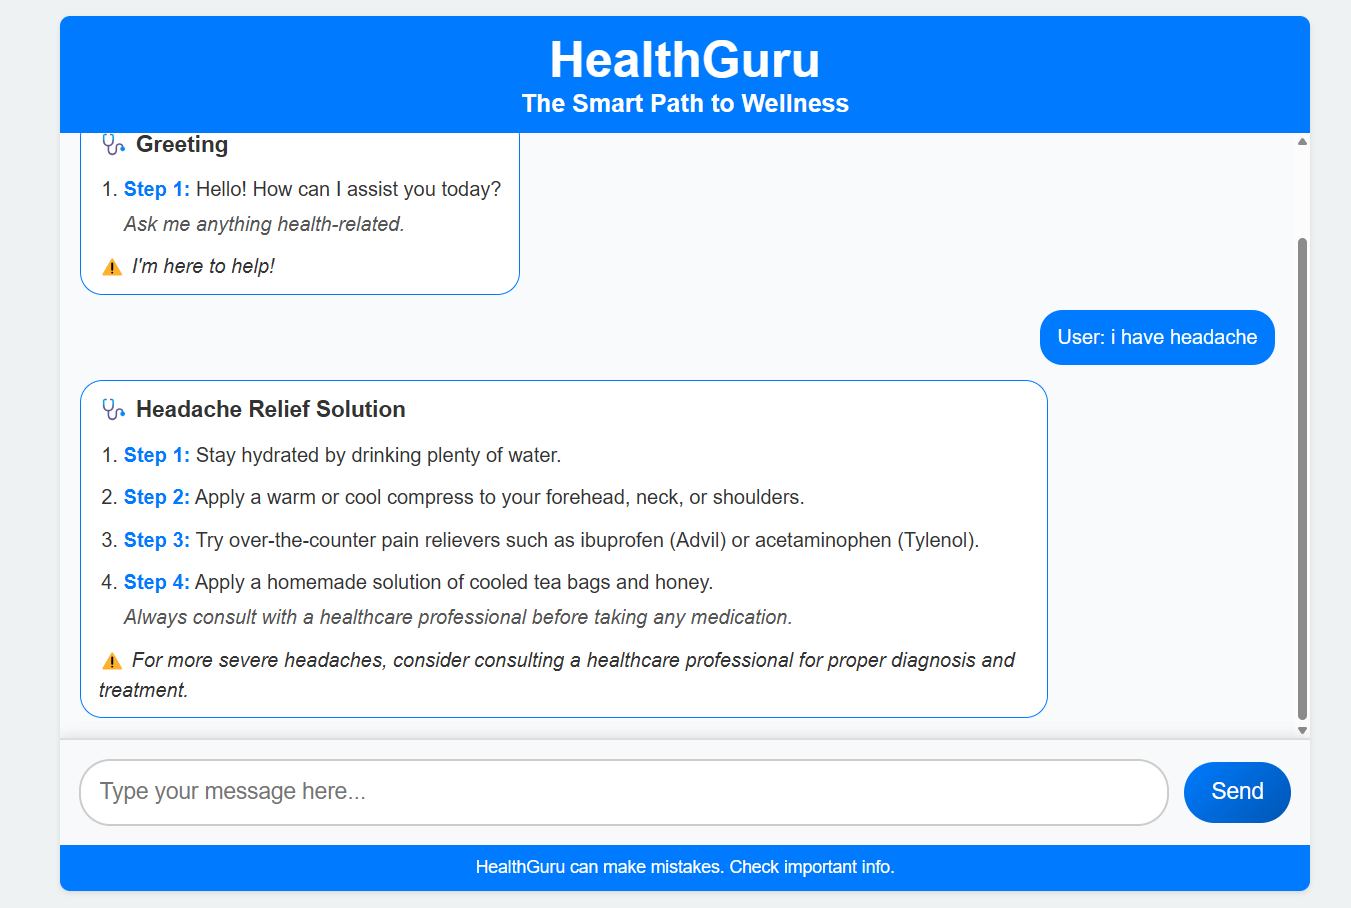
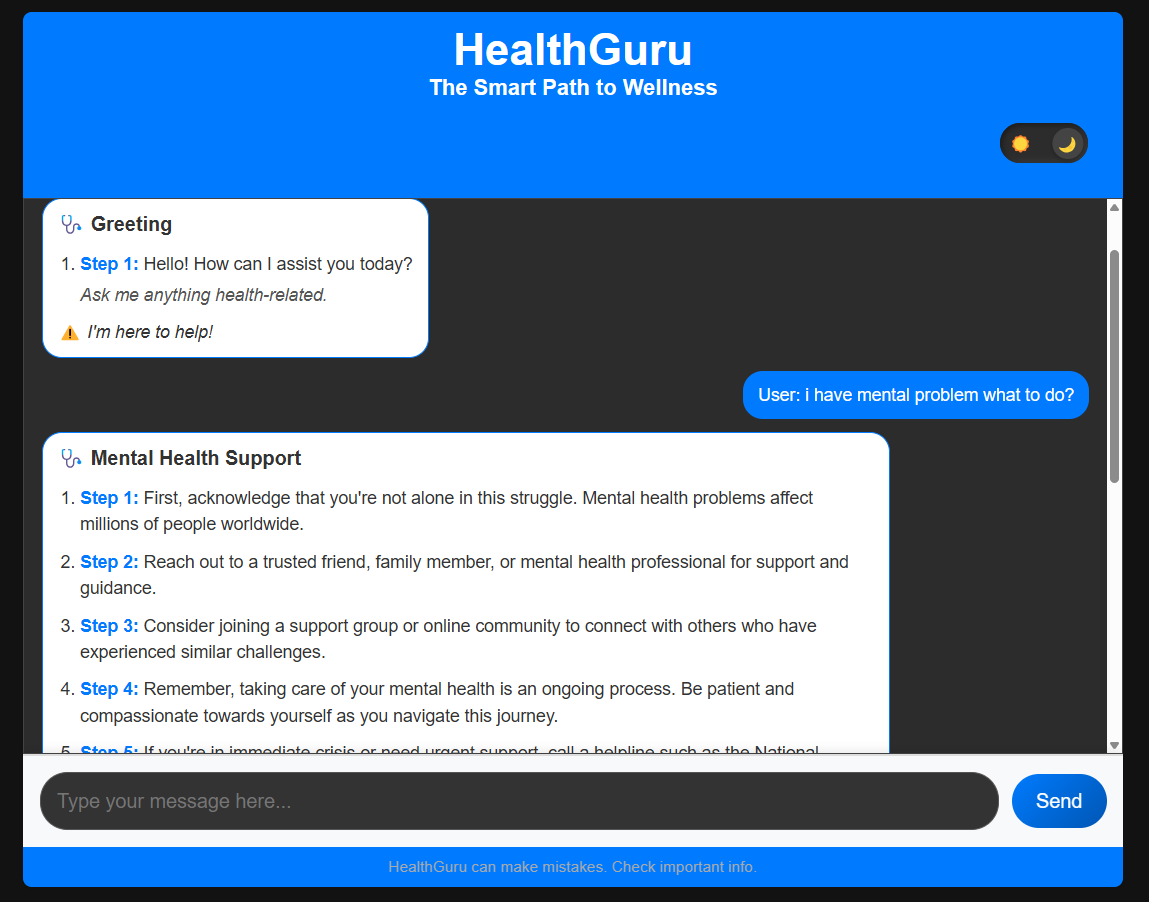
Features image changed

diff --git a/src/main/resources/templates/chat.css b/src/main/resources/templates/chat.css
@@ -168,3 +168,99 @@ footer {
   padding: 10px;
   font-size: 14px;
 }
+/* === Dark Mode Only === */
+body.dark-mode {
+    background-color: #121212;
+    color: #e0e0e0;
+}
+
+body.dark-mode .chat-container {
+    background-color: #1f1f1f;
+}
+
+body.dark-mode .chat-box {
+    background-color: #2c2c2c;
+    border: 1px solid #444;
+    color: #e0e0e0;
+}
+
+body.dark-mode input[type="text"] {
+    background-color: #333;
+    color: #fff;
+    border: 1px solid #555;
+}
+
+body.dark-mode button {
+    background-color: #005fcc;
+    color: #fff;
+}
+
+body.dark-mode button:hover {
+    background-color: #003f99;
+}
+
+body.dark-mode footer {
+    color: #aaa;
+}
+/* Wrapper alignment */
+.toggle-wrapper {
+    display: flex;
+    justify-content: flex-end;
+    padding: 1rem;
+}
+
+/* Hide the checkbox */
+#darkModeToggle {
+    display: none;
+}
+
+/* Toggle background container */
+.toggle-label {
+    display: inline-flex;
+    align-items: center;
+    justify-content: space-between;
+    width: 80px;
+    height: 36px;
+    background-color: #e0e0e0;
+    border-radius: 50px;
+    padding: 0 8px;
+    position: relative;
+    cursor: pointer;
+    box-shadow: inset 2px 2px 5px #c5c5c5, inset -2px -2px 5px #ffffff;
+    transition: background-color 0.3s ease;
+}
+
+/* Toggle icons */
+.toggle-icon {
+    z-index: 2;
+    font-size: 16px;
+    pointer-events: none;
+    color: #333;
+}
+
+/* Toggle circle */
+.toggle-label::before {
+    content: "";
+    position: absolute;
+    width: 28px;
+    height: 28px;
+    background-color: #ffffff;
+    border-radius: 50%;
+    top: 4px;
+    left: 4px;
+    transition: transform 0.3s ease;
+    box-shadow: 0 2px 4px rgba(0, 0, 0, 0.2);
+}
+
+/* Dark mode active (when checkbox is checked) */
+#darkModeToggle:checked + .toggle-label {
+    background-color: #2c2c2c;
+    box-shadow: inset 2px 2px 5px #1a1a1a, inset -2px -2px 5px #3a3a3a;
+}
+
+/* Move circle to the right */
+#darkModeToggle:checked + .toggle-label::before {
+    transform: translateX(44px);
+    background-color: #444;
+}
+

diff --git a/src/main/resources/templates/chat.html b/src/main/resources/templates/chat.html
@@ -14,16 +14,31 @@
     <header>
         <h1>HealthGuru</h1>
         <p>The Smart Path to Wellness</p>
+        <!-- Dark Mode Toggle Button -->
+        <!-- Dark Mode Toggle Switch -->
+        <div class="toggle-wrapper">
+            <input type="checkbox" id="darkModeToggle" />
+            <label for="darkModeToggle" class="toggle-label">
+                <span class="toggle-icon sun">☀</span>
+                <span class="toggle-icon moon">🌙</span>
+            </label>
+        </div>
+
     </header>
+
     <div id="chat-box" class="chat-box"></div>
+
     <div class="input-area">
         <input type="text" id="chatInput" placeholder="Type your message here..." />
         <button id="sendBtn" onclick="sendMessage()">Send</button>
     </div>
+
     <footer>
         <p>HealthGuru can make mistakes. Check important info.</p>
     </footer>
 </div>
+
 <script src="chat.js"></script>
+<script src="darkmode.js"></script> <!-- Add this for dark mode toggle -->
 </body>
 </html>

diff --git a/src/main/resources/templates/chat.js b/src/main/resources/templates/chat.js
@@ -160,3 +160,23 @@ window.onload = function() {
     connect();
     document.getElementById("chatInput").addEventListener("keypress", handleKeyPress);
 };
+
+document.addEventListener("DOMContentLoaded", () => {
+    const toggle = document.getElementById("darkModeToggle");
+    const currentTheme = localStorage.getItem("theme");
+
+    if (currentTheme === "dark") {
+        document.body.classList.add("dark-mode");
+        toggle.checked = true;
+    }
+
+    toggle.addEventListener("change", () => {
+        if (toggle.checked) {
+            document.body.classList.add("dark-mode");
+            localStorage.setItem("theme", "dark");
+        } else {
+            document.body.classList.remove("dark-mode");
+            localStorage.setItem("theme", "light");
+        }
+    });
+});

diff --git a/src/main/resources/templates/Home/styles.css b/src/main/resources/templates/Home/styles.css
@@ -60,19 +60,7 @@ button {
     background: #e0f0ff;
 }
 
-/* Features Section */
-.features {
-    padding: 60px 20px;
-    text-align: center;
-}
 
-.feature-cards {
-    display: flex;
-    flex-wrap: wrap;
-    justify-content: center;
-    gap: 30px;
-    margin-top: 40px;
-}
 
 .card {
     background: #ffffff;
@@ -171,6 +159,24 @@ footer {
     background: #f0f8ff;
     position: relative;
 }
+
+.feature-image {
+    width: 100%;
+    max-width: 500px;
+    height: auto;
+    display: flex;
+    justify-content: center;
+    align-items: center;
+}
+
+.feature-image img {
+    width: 100%;
+    height: auto;
+    max-height: 350px;
+    object-fit: cover;
+    border-radius: 12px;
+}
+
 
 .features h2 {
     font-size: 2.5rem;
